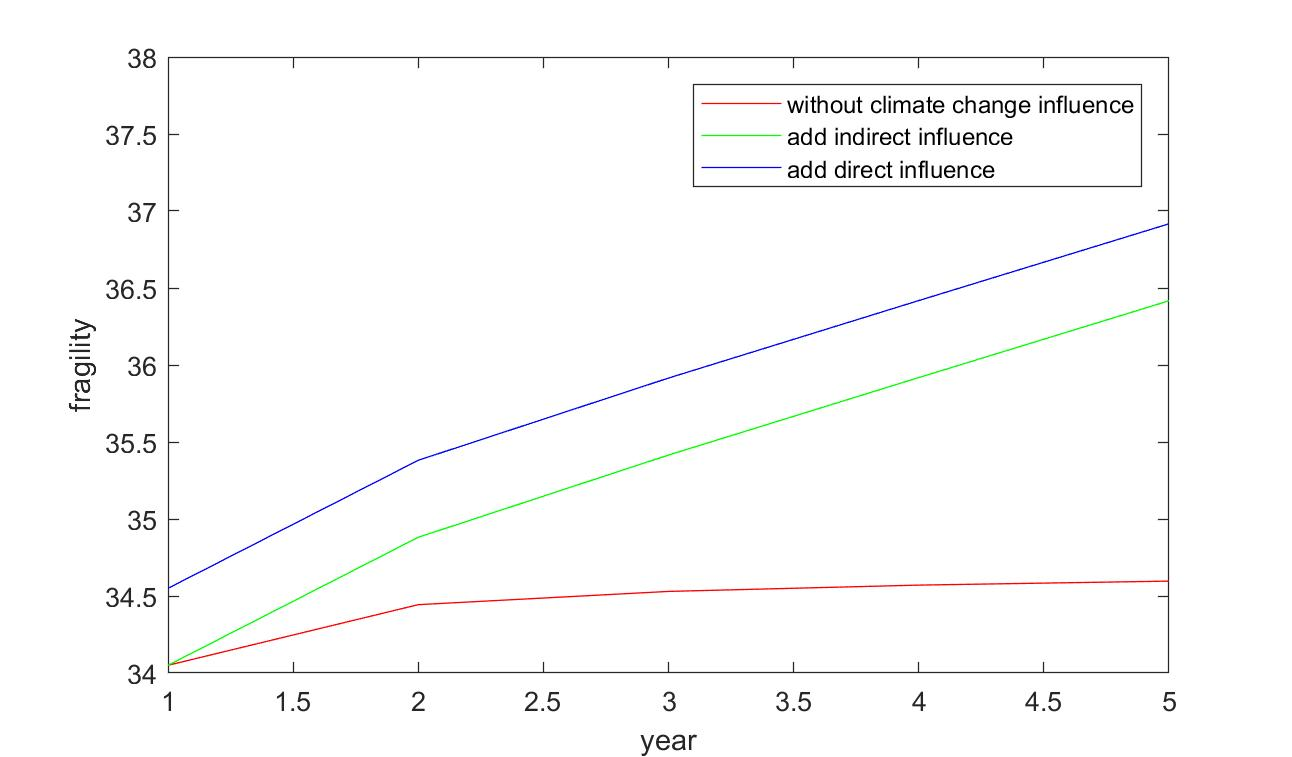
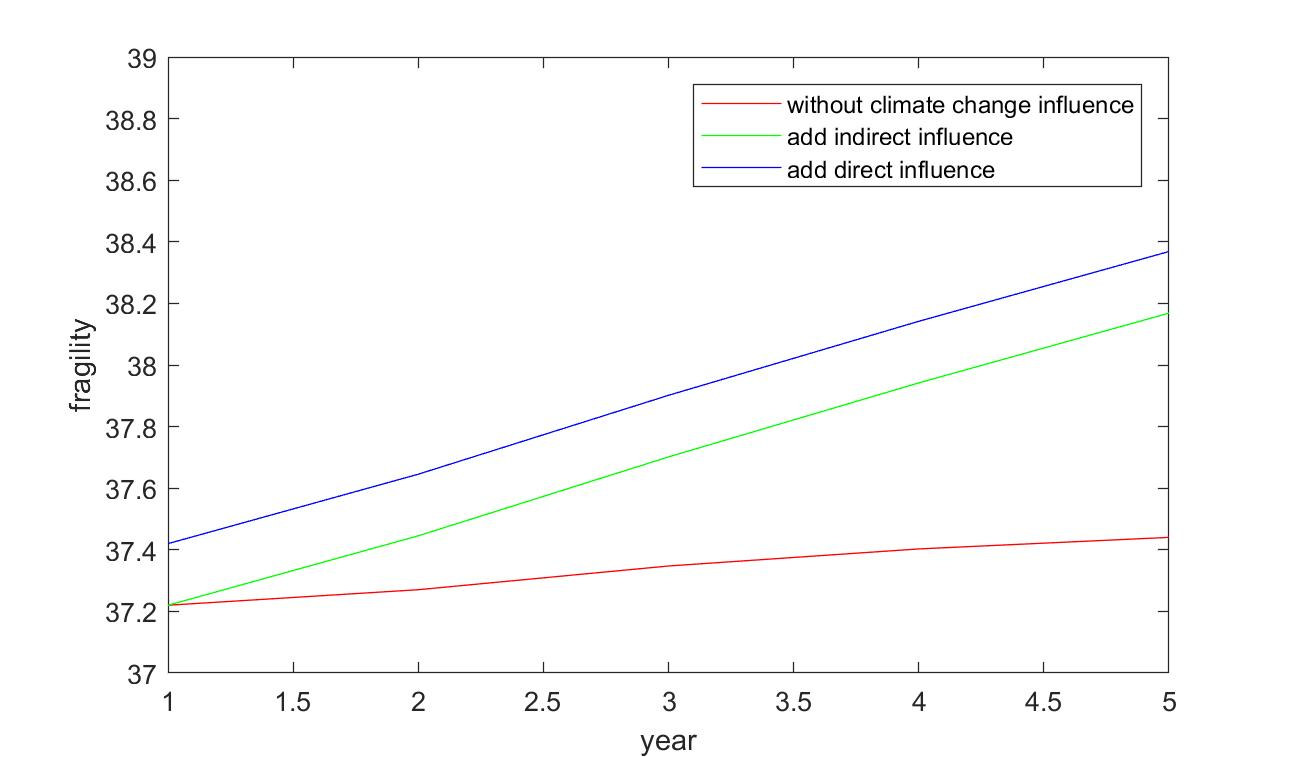
change Haiti to CAR

diff --git a/code/CAR.m b/code/CAR.m
@@ -7,7 +7,7 @@ factors1=[9.85; 9; 8.87; 9.5]; %Central African Republic
 factors=factors1;
 K=[1/2 0 1/3 1/6; 0 2/3 1/6 1/6; 1/2 0 3/8 1/8; 1/4 1/4 1/4 1/4];
 KC=[1/8; 0; 1/2; 1/4];
-C=0.5;
+C=0.2;
 year=5;
 X=zeros(year);
 Y1=zeros(year);
@@ -38,7 +38,7 @@ for i=1:year
     factors=K*factors+KC*C;    
 end    
 p3=plot(X, Y3, 'b');
-axis([1 year 37 41]);
+axis([1 year 37 39]);
 hold off
 xlabel('year');
 ylabel('fragility');

diff --git a/code/CAR_5equal.m b/code/CAR_5equal.m
@@ -16,10 +16,10 @@ for i=1:year
     factors=K*factors;    
 end    
 p1=plot(X, Y1, 'r');
-axis([1 year 36 38]);
+axis([1 year 36.5 37]);
 
 xlabel('year');
 ylabel('fragility');
 legend('without climate change influence');
-grid();
+%grid();
 
